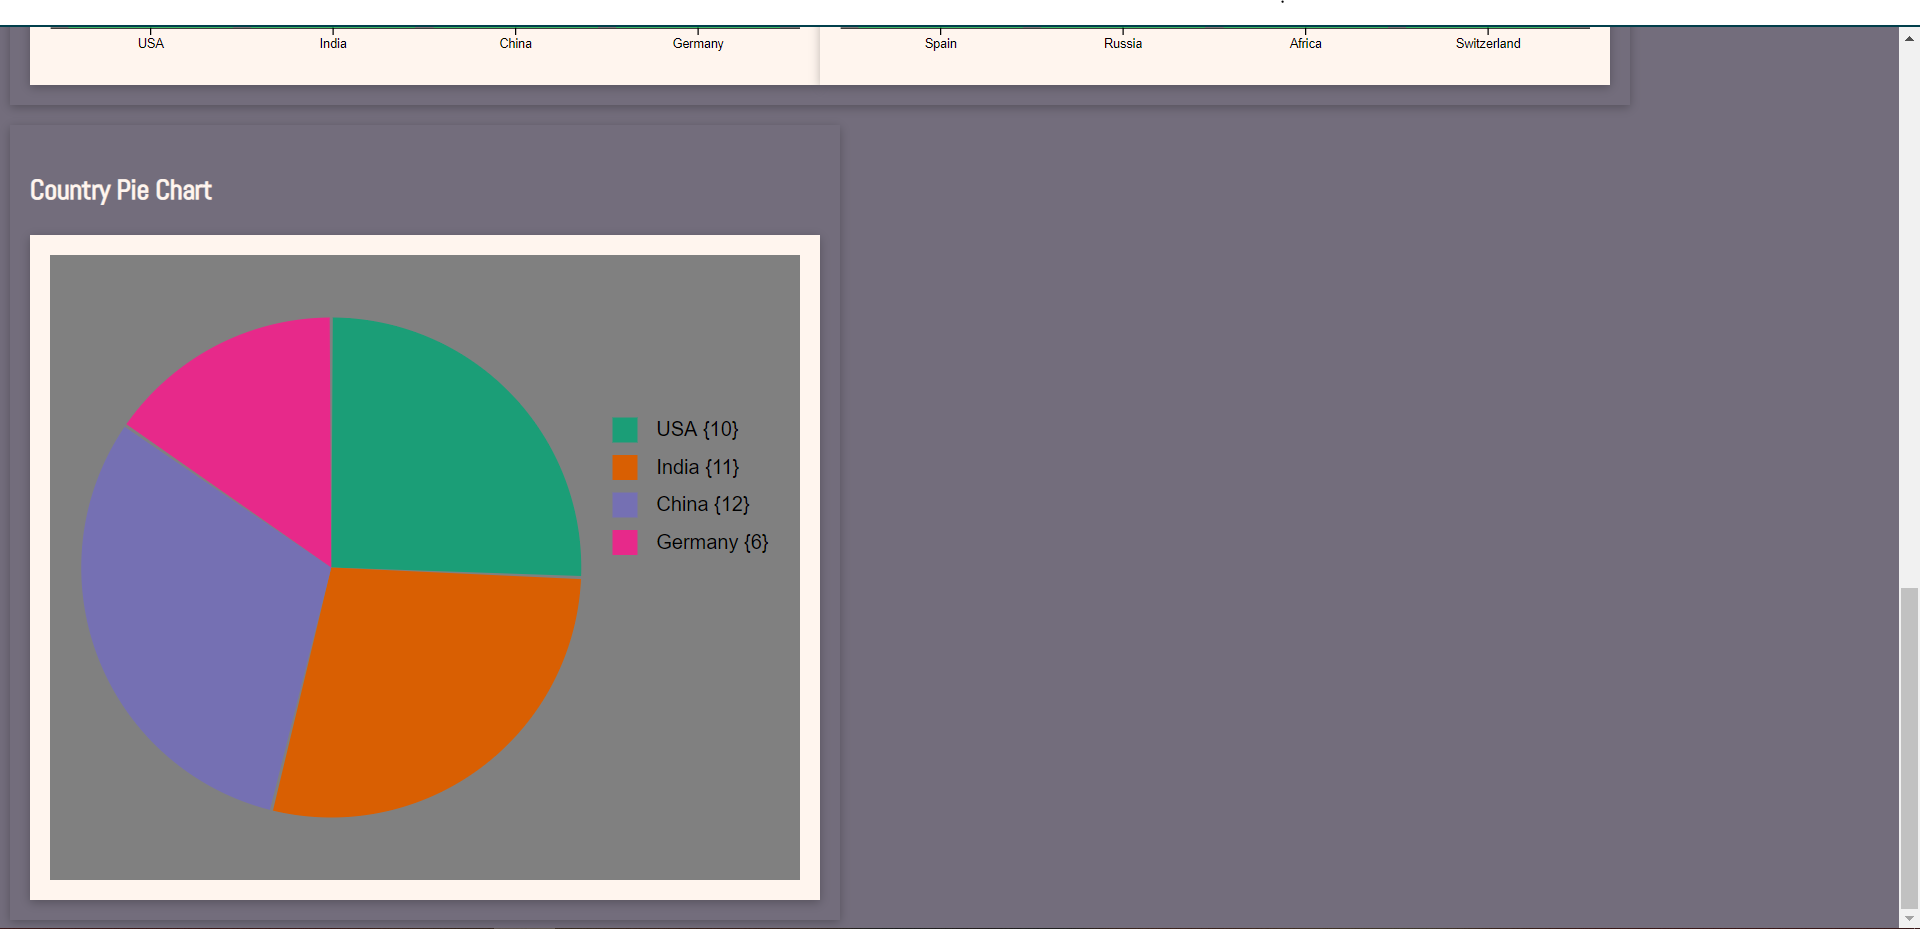
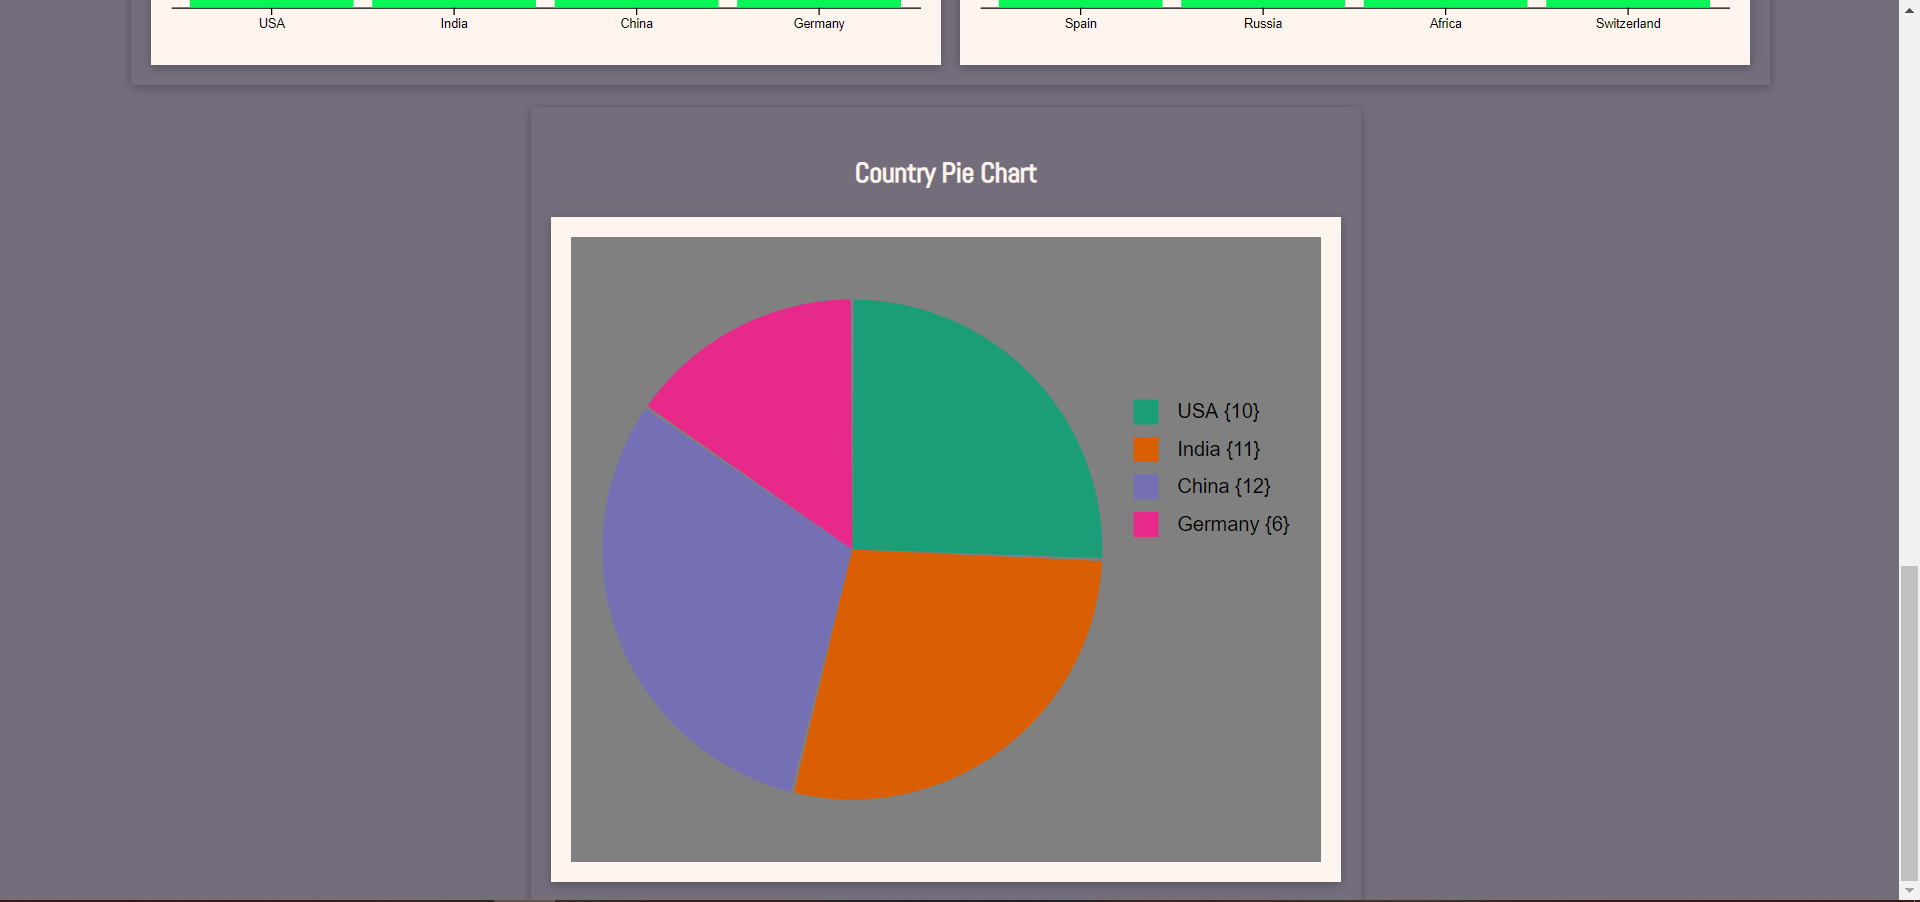
Added a scatter plot using json data. Also repositioned some of the contents around.

diff --git a/index.js b/index.js
@@ -152,7 +152,7 @@ document.addEventListener('DOMContentLoaded', function(e) {
 //-----------------------This is the code for the line graph--------------------------------
 //Setup new margin values to accommodate for the increased size
     let margin = {top: 20, right: 40, bottom: 30, left: 50},
-        width = 960 - margin.left - margin.right,
+        width = 600 - margin.left - margin.right,
         height = 500 - margin.top - margin.bottom;
 //Parses the time data
     let parseTime = d3.timeParse('%Y');
@@ -233,7 +233,78 @@ document.addEventListener('DOMContentLoaded', function(e) {
     .catch(function(error) {
         console.log(error)  
     });
+//--------------------------This is the code for the scatter plot---------------------------
+//Parses the time data
+    let parseTime2 = d3.timeParse('%Y');
+//Setup new x and y variables for the new chart
+    let x4 = d3.scaleTime().range([0, width]);
+    let y4 = d3.scaleLinear().range([height, 0]);
+//Selects the html element with "scp" as the id and sets the height, width
+//and translates it to the correct position.
+    let svg3 = d3.select('#scp').append('svg')
+            .attr('width', width + margin.left + margin.right)
+            .attr('height', height + margin.top + margin.bottom + 25)
+            .append('g')
+            .attr("transform", "translate(" + margin.left + "," + margin.top + ")");
+//Function to draw the graph
+    function draw2(data, option) {
+        data = data[option];
+//Parse Json data
+        data.forEach(function(d) {
+            d.date = parseTime2(d.date);
+            d.value = +d.value;
+        });
+//Sorts the data incase the years are out of order
+        data.sort(function(a, b) {
+            return a["date"]-b["date"];
+        });
+//Sets the domain of the x and y variable the largest date and value
+        x4.domain(d3.extent(data, function(d) {return d.date; }));
+        y4.domain([0, d3.max(data, function(d) {
+            return Math.max(d.value)
+        })]);
+//Setup the x axis
+        svg3.append('g')
+            .attr("transform", "translate(0," + height + ")")
+            .call(d3.axisBottom(x4));
+//Text label for the x axis
+        svg3.append("text")             
+            .attr("transform", "translate(" + (width/2) + " ," + (height + margin.top + 20) + ")")
+            .style("text-anchor", "middle")
+            .text("Year");
+//Sets up the y axis
+        svg3.append('g')
+            .call(d3.axisLeft(y4));
+//Text label for the y axis and positions it in the correct spot        
+        svg3.append("text")
+            .attr("transform", "rotate(-90)")
+            .attr("y", 0 - margin.left)
+            .attr("x",0 - (height / 2))
+            .attr("dy", "1em")
+            .style("text-anchor", "middle")
+            .text("Value");      
+//Plots a circle at each point
+        let label2 = d3.select(".label");
+        svg3.selectAll("circle")
+		.data(data)
+		.enter()
+		.append("circle")
+		.attr("r", 5)
+	    .attr("cx", function(d) {
+	        return x4(d.date)
+	    })
+	    .attr("cy", function(d) {
+	        return y4(d.value)
+	    });
+    }
+//Json request and calls the draw function. This enables us to be able to draw more then
+//line on the line graph.
+    d3.json('test.json').then(function(data) {
+        draw2(data, "scpdata");
+    })
+    .catch(function(error) {
+        console.log(error)  
+    });
 
-    
     });
 });

diff --git a/index.html b/index.html
@@ -13,31 +13,45 @@
 </head>
 <body>
     <h1>TSU COVID-19 Twitter Data-Visualizer</h1>
-     <div id="linegraph" style="width: 990px;">
-        <div id="ltextcontainer">
-            <p id="line">Country Line Graph</p>
-        </div>
-        <div id="lngraphcontainer" style="width: 960px;">
-            <div id="lnchrt"></div>
-        </div>
-    </div>
-    <div id="app">
-        <div id="barchart">
-            <div id="textcontainer">
-                <p>Country Bar Charts</p>
-            </div>
-            <div id="chartcontainer">
-                <div id="chart">
-                    <svg></svg>
+    <div id="all">
+        <div id="plots">
+            <div id="linegraph" style="width: 630px;">
+                <div id="ltextcontainer">
+                    <p id="line">Country Line Graph</p>
                 </div>
-                <div id="chart2"></div>
+                <div id="lngraphcontainer" style="width: 600px;">
+                    <div id="lnchrt"></div>
+                </div>
+            </div>
+            <div style="width: 15px;"></div>
+            <div id="scpcontainer" style="width: 630px;">
+            <div id="scpspacing">
+                <div><p>Time Scatter Plot</p></div>
+                <div id="scp" style="width: 600px;">
+                    <p class="label"></p>
+                </div>
             </div>
         </div>
-    </div>
-    <div id="piechart" style="width: 632px;"> 
-        <div id="spacing">
-            <div><p>Country Pie Chart</p></div>
-            <div id="pie" style="height: 500px; width: 600px;"></div>
+        </div>
+        <div id="app">
+            <div id="barchart">
+                <div id="textcontainer">
+                    <p>Country Bar Charts</p>
+                </div>
+                <div id="chartcontainer">
+                    <div id="chart">
+                        <svg></svg>
+                    </div>
+                    <div style="width: 15px;"></div>
+                    <div id="chart2"></div>
+                </div>
+            </div>
+        </div>
+        <div id="piechart" style="width: 632px;"> 
+            <div id="spacing">
+                <div><p>Country Pie Chart</p></div>
+                <div id="pie" style="height: 500px; width: 600px;"></div>
+            </div>
         </div>
     </div>
 </body>

diff --git a/index.css b/index.css
@@ -6,10 +6,20 @@ body {
     background-color: rgb(115, 109, 124);
 }
 
+#all {
+    text-align: center;
+}
+
 .line {
   fill: none;
   stroke: rgb(241, 3, 3);
   stroke-width: 5px;
+}
+
+#plots {
+    display: flex;
+    position: absolute;
+    left: 90px;
 }
 
 #linegraph {
@@ -19,6 +29,7 @@ body {
 
 #lngraphcontainer {
     box-shadow: 0 2px 8px rgba(0, 0, 0, 0.26);
+    background-color: seashell;
     padding: 1rem;
 }
 
@@ -26,6 +37,9 @@ body {
     display: flex;
     padding-bottom: 1rem;
     padding-top: 1rem;
+    position: absolute;
+    top: 770px;
+    left: 105px;
 }
 
 p {
@@ -62,6 +76,9 @@ h1 {
 #piechart {
     box-shadow: 0 2px 8px rgba(0, 0, 0, 0.26);
     padding: 1rem;
+    position: absolute;
+    top: 1340px;
+    left: 425px;
 }
 
 #chartcontainer {
@@ -92,4 +109,21 @@ h1 {
     box-shadow: 0 2px 8px rgba(0, 0, 0, 0.26);
     background-color: seashell;
     padding: 1rem;
+}
+
+circle {
+    cursor: pointer;
+    fill: rgb(15, 15, 15);
+}
+
+#scpcontainer {
+    box-shadow: 0 2px 8px rgba(0, 0, 0, 0.26);
+    padding: 1rem;
+}
+
+#scp {
+    box-shadow: 0 2px 8px rgba(0, 0, 0, 0.26);
+    background-color: seashell;
+    padding: 1rem;
+
 }
